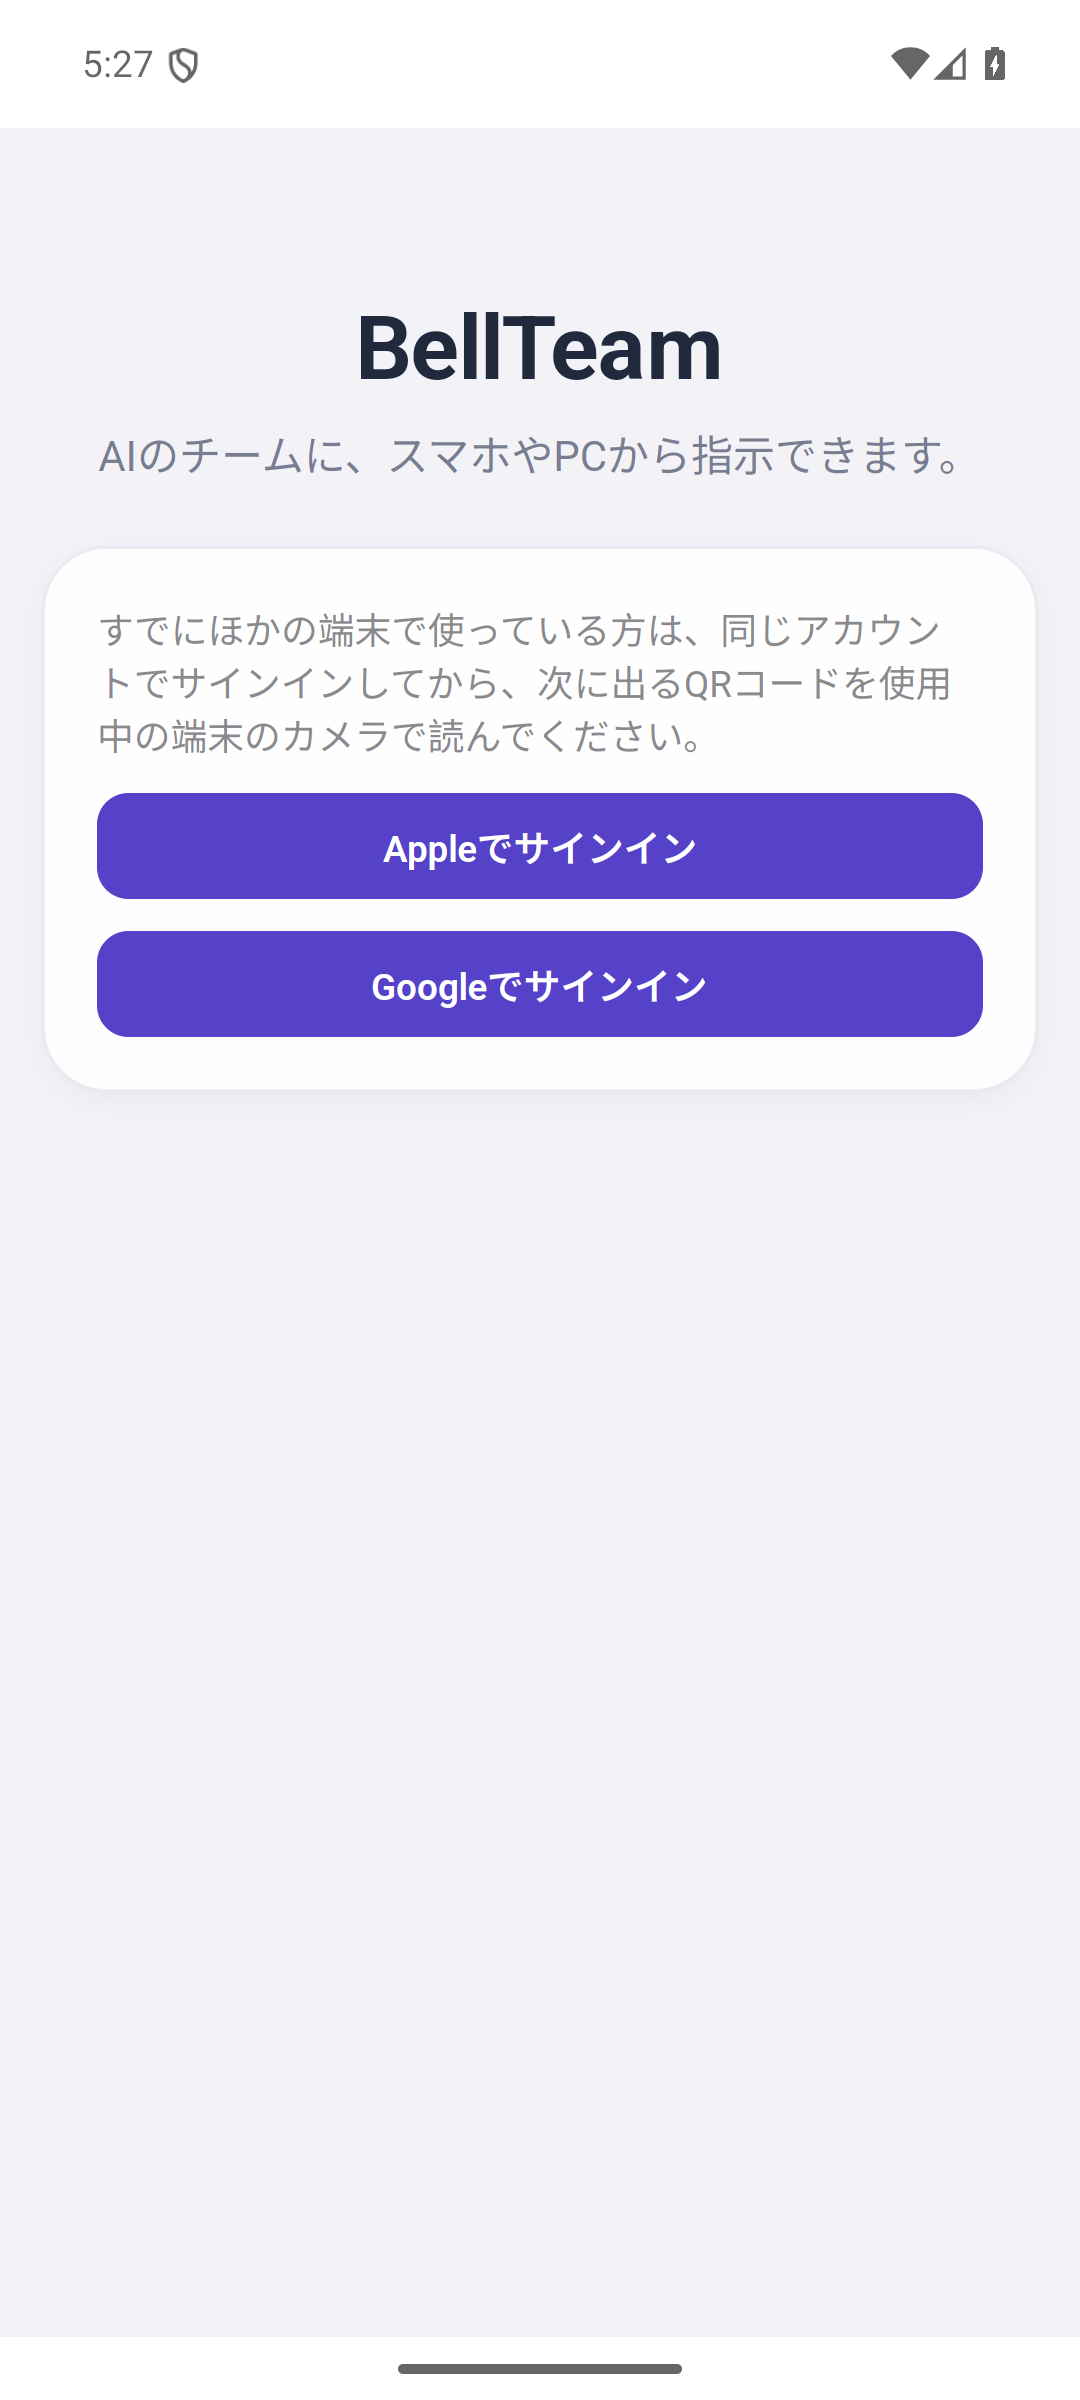
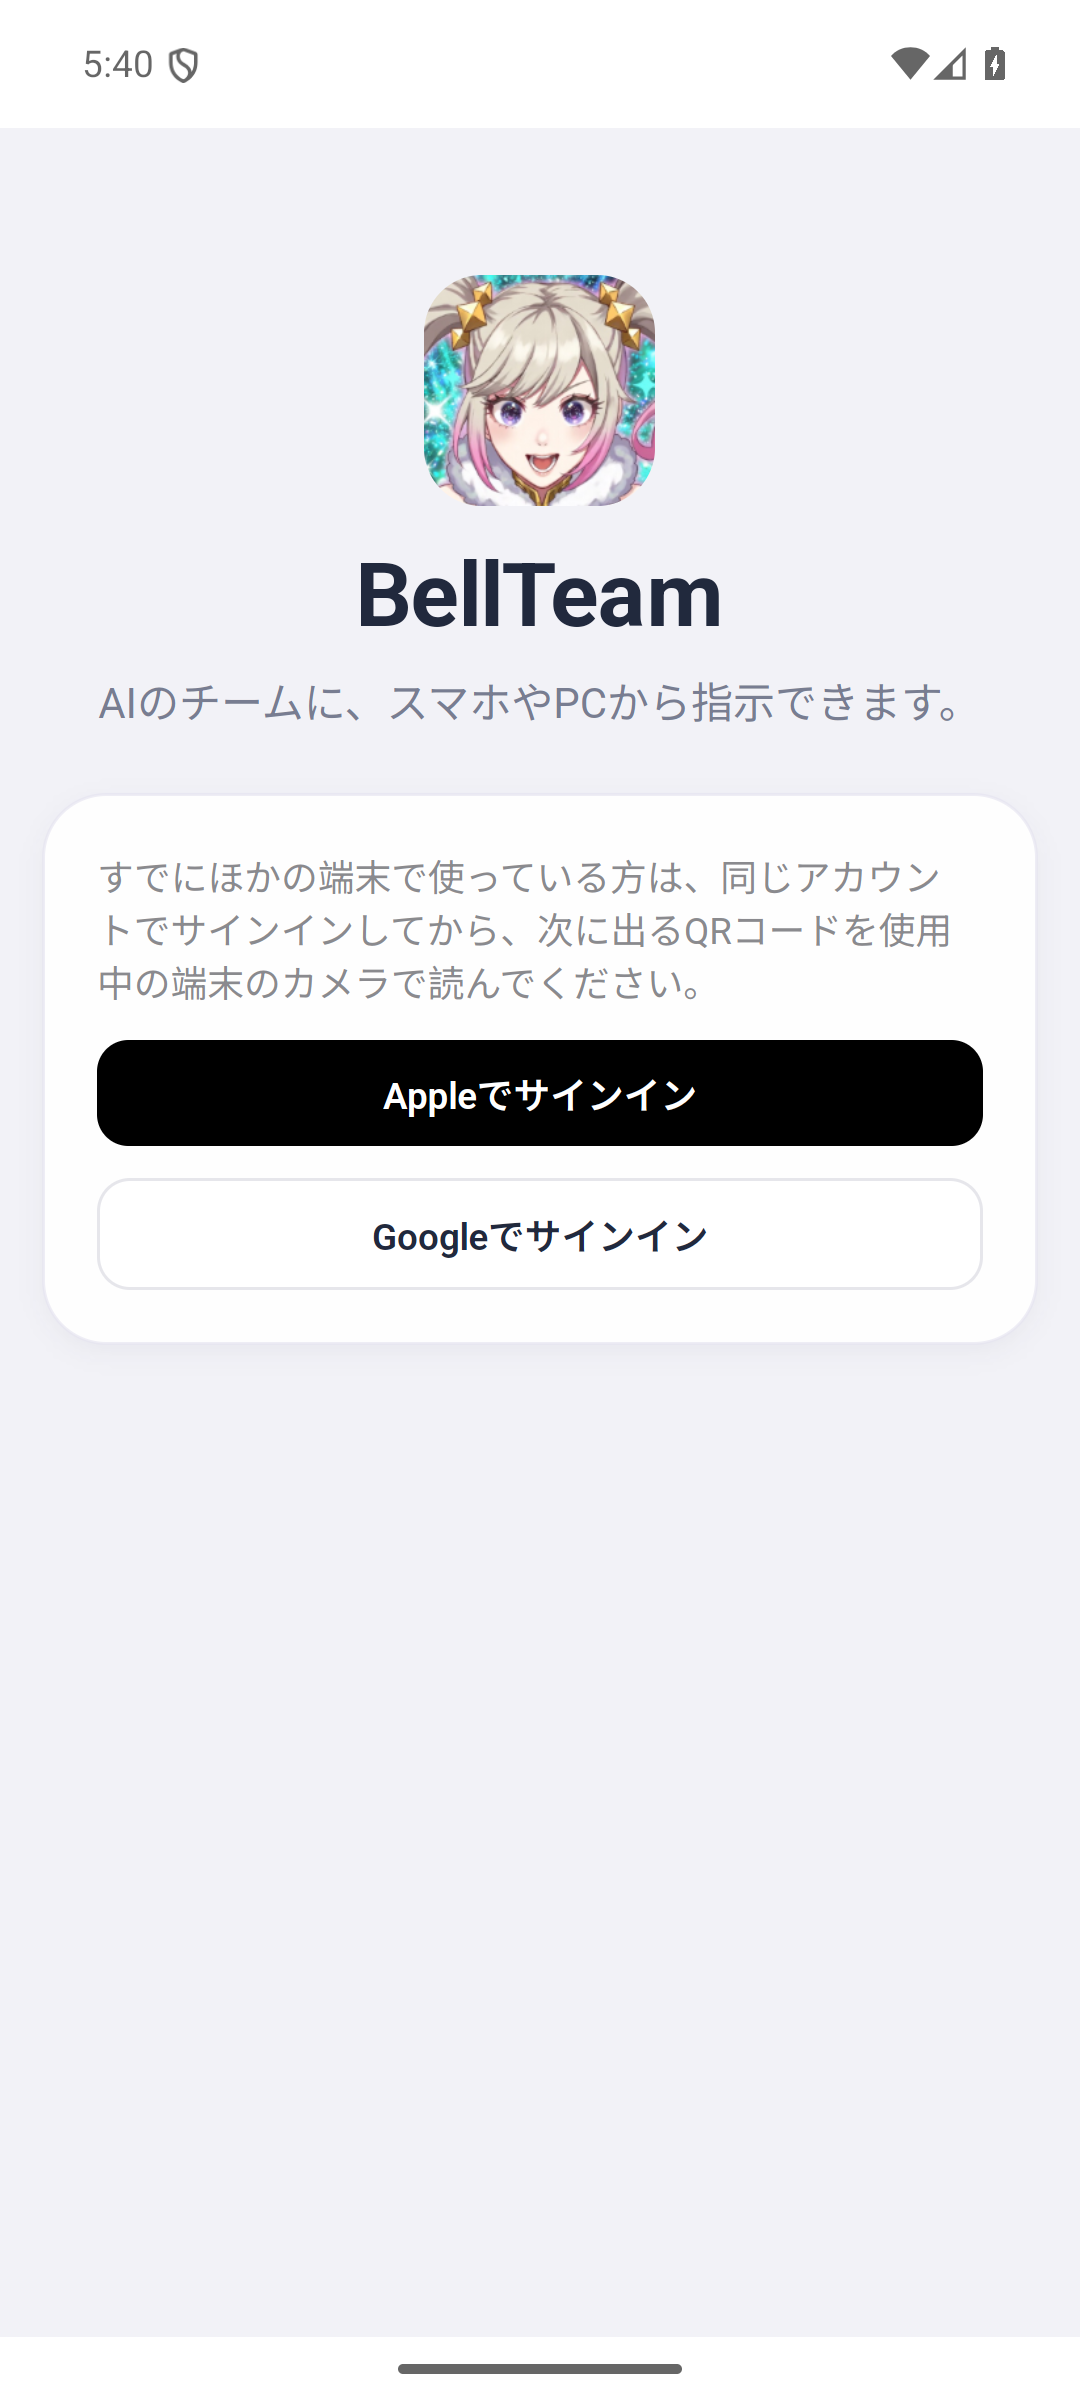
first screen: the app portrait above the name, Apple's sign-in black and first, Google's white (as Windows)

diff --git a/android/BellTeam.Android/AccountCard.cs b/android/BellTeam.Android/AccountCard.cs
@@ -95,14 +95,17 @@ public sealed class AccountCard : StackPanel
     private void RenderFirstScreen()
     {
         if ((request?.Qr ?? (preview is { Length: > 0 } ? preview : null)) is { } qr) { Children.Add(QrScreen(qr)); return; }
-        var name = Text(LocalFormText.AppName, 34, Ink, FontWeight.Bold, new Thickness(0, 24, 0, 0)); name.HorizontalAlignment = HorizontalAlignment.Center;
+        // The app's own portrait above the name, 88 px with rounded corners (Windows' first screen has the same tile).
+        var icon = Round.Clip(new Image { Source = EmbeddedAsset.Portrait(176), Stretch = Stretch.UniformToFill, Width = 88, Height = 88 }, 22); icon.HorizontalAlignment = HorizontalAlignment.Center; icon.Margin = new Thickness(0, 16, 0, 0);
+        var name = Text(LocalFormText.AppName, 34, Ink, FontWeight.Bold, new Thickness(0, 14, 0, 0)); name.HorizontalAlignment = HorizontalAlignment.Center;
         var purpose = Text(LocalFormText.Purpose, 16, Muted, null, new Thickness(0, 8, 0, 24)); purpose.HorizontalAlignment = HorizontalAlignment.Center; purpose.TextAlignment = TextAlignment.Center;
-        Children.Add(name); Children.Add(purpose);
+        Children.Add(icon); Children.Add(name); Children.Add(purpose);
         var inner = new StackPanel();
         if (notice is not null) inner.Children.Add(Text(notice, 14, Ink, FontWeight.SemiBold, new Thickness(0, 0, 0, 8)));
         inner.Children.Add(Text(LocalFormText.FirstSignIn, 14, Secondary));
-        foreach (var (label, provider) in new[] { (SignInText.Apple, "apple"), (SignInText.Google, "google") })
-        { var way = Button(label, () => RequestAsync(provider), Look.Primary); way.HorizontalAlignment = HorizontalAlignment.Stretch; way.HorizontalContentAlignment = HorizontalAlignment.Center; inner.Children.Add(way); }
+        // Apple's rule: its button is black and the first, and the only black one; Google's is white with a hairline, as on Windows.
+        foreach (var (label, provider, look) in new[] { (SignInText.Apple, "apple", Look.Apple), (SignInText.Google, "google", Look.Google) })
+        { var way = Button(label, () => RequestAsync(provider), look); way.HorizontalAlignment = HorizontalAlignment.Stretch; way.HorizontalContentAlignment = HorizontalAlignment.Center; inner.Children.Add(way); }
         if (busy && attempt is { } signing) { inner.Children.Add(Text(SignInText.Waiting, 13, Muted, null, new Thickness(0, 12, 0, 0))); var stop = Capsule(LocalFormText.Cancel, Fill, Ink, 12, 14, new Thickness(16, 10)); stop.HorizontalAlignment = HorizontalAlignment.Left; stop.Margin = new Thickness(0, 12, 0, 0); stop.Click += (_, _) => signing.Cancel(); inner.Children.Add(stop); }
         if (failure is not null) inner.Children.Add(Banner(failure));
         Children.Add(SettingsUi.Card(inner));
@@ -217,7 +220,7 @@ public sealed class AccountCard : StackPanel
 
     public static string DoneText => AccountDeletionText.ResultBody(Cancel);
 
-    private enum Look { Primary, Secondary, Danger, DangerFilled }
+    private enum Look { Primary, Secondary, Danger, DangerFilled, Apple, Google }
 
     private Button Button(string label, Func<Task> click, Look look)
     {
@@ -226,10 +229,13 @@ public sealed class AccountCard : StackPanel
             Look.Primary => ((IBrush)BellTheme.ProminentFill, (IBrush)Brushes.White),
             Look.DangerFilled => (Red, Brushes.White),
             Look.Danger => (Fill, Red),
+            Look.Apple => (Brushes.Black, Brushes.White),
+            Look.Google => (Brushes.White, Ink),
             _ => (Fill, Ink),
         };
         var button = Capsule(label, background, foreground, 12, 14, new Thickness(16, 10));
         button.FontWeight = look == Look.Secondary ? FontWeight.Normal : FontWeight.SemiBold; button.HorizontalAlignment = HorizontalAlignment.Left; button.Margin = new Thickness(0, 12, 0, 0); button.IsEnabled = !busy;
+        if (look == Look.Google) { button.BorderBrush = Hairline; button.BorderThickness = new Thickness(1); }
         button.Click += async (_, _) => await click();
         return button;
     }

diff --git a/linux/BellTeam.Linux/LinuxAccountCard.cs b/linux/BellTeam.Linux/LinuxAccountCard.cs
@@ -76,14 +76,17 @@ public sealed class LinuxAccountCard : StackPanel
     private void RenderFirstScreen()
     {
         if ((request?.Qr ?? preview) is { } qr) { Children.Add(QrScreen(qr)); return; }
-        var name = Text(LocalFormText.AppName, 34, Ink, FontWeight.Bold, new Thickness(0, 24, 0, 0)); name.HorizontalAlignment = HorizontalAlignment.Center;
+        // The app's own portrait above the name, 88 px with rounded corners (Windows' first screen has the same tile).
+        var icon = Round.Clip(new Image { Source = EmbeddedAsset.Portrait(176), Stretch = Stretch.UniformToFill, Width = 88, Height = 88 }, 22); icon.HorizontalAlignment = HorizontalAlignment.Center; icon.Margin = new Thickness(0, 16, 0, 0);
+        var name = Text(LocalFormText.AppName, 34, Ink, FontWeight.Bold, new Thickness(0, 14, 0, 0)); name.HorizontalAlignment = HorizontalAlignment.Center;
         var purpose = Text(LocalFormText.Purpose, 16, Muted, null, new Thickness(0, 8, 0, 24)); purpose.HorizontalAlignment = HorizontalAlignment.Center; purpose.TextAlignment = TextAlignment.Center;
-        Children.Add(name); Children.Add(purpose);
+        Children.Add(icon); Children.Add(name); Children.Add(purpose);
         var inner = new StackPanel();
         if (notice is not null) inner.Children.Add(Text(notice, 14, Ink, FontWeight.SemiBold, new Thickness(0, 0, 0, 8)));
         inner.Children.Add(Text(LocalFormText.FirstSignIn, 14, Secondary));
-        foreach (var (label, provider) in new[] { (SignInText.Apple, "apple"), (SignInText.Google, "google") })
-        { var way = Button(label, () => RequestAsync(provider), Look.Primary); way.HorizontalAlignment = HorizontalAlignment.Stretch; way.HorizontalContentAlignment = HorizontalAlignment.Center; inner.Children.Add(way); }
+        // Apple's rule: its button is black and the first, and the only black one; Google's is white with a hairline, as on Windows.
+        foreach (var (label, provider, look) in new[] { (SignInText.Apple, "apple", Look.Apple), (SignInText.Google, "google", Look.Google) })
+        { var way = Button(label, () => RequestAsync(provider), look); way.HorizontalAlignment = HorizontalAlignment.Stretch; way.HorizontalContentAlignment = HorizontalAlignment.Center; inner.Children.Add(way); }
         if (busy && request is null && attempt is { } signing) { inner.Children.Add(Waiting(SignInText.Waiting)); var stop = Capsule(LocalFormText.Cancel, Fill, Ink, 12, 14, new Thickness(16, 10)); stop.HorizontalAlignment = HorizontalAlignment.Left; stop.Margin = new Thickness(0, 12, 0, 0); stop.Click += (_, _) => signing.Cancel(); inner.Children.Add(stop); }
         if (failure is not null) inner.Children.Add(Banner(failure));
         Children.Add(SettingsUi.Card(inner));
@@ -181,7 +184,7 @@ public sealed class LinuxAccountCard : StackPanel
 
     public static string DoneText => AccountDeletionText.ResultBody(Cancel);
 
-    private enum Look { Primary, Secondary, Danger, DangerFilled }
+    private enum Look { Primary, Secondary, Danger, DangerFilled, Apple, Google }
 
     private Button Button(string label, Func<Task> click, Look look)
     {
@@ -190,10 +193,13 @@ public sealed class LinuxAccountCard : StackPanel
             Look.Primary => ((IBrush)BellTheme.ProminentFill, (IBrush)Brushes.White),
             Look.DangerFilled => (Red, Brushes.White),
             Look.Danger => (Fill, Red),
+            Look.Apple => (Brushes.Black, Brushes.White),
+            Look.Google => (Brushes.White, Ink),
             _ => (Fill, Ink),
         };
         var button = Capsule(label, background, foreground, 12, 14, new Thickness(16, 10));
         button.FontWeight = look == Look.Secondary ? FontWeight.Normal : FontWeight.SemiBold; button.HorizontalAlignment = HorizontalAlignment.Left; button.Margin = new Thickness(0, 12, 0, 0); button.IsEnabled = !busy;
+        if (look == Look.Google) { button.BorderBrush = Hairline; button.BorderThickness = new Thickness(1); }
         button.Click += async (_, _) => await click();
         return button;
     }
